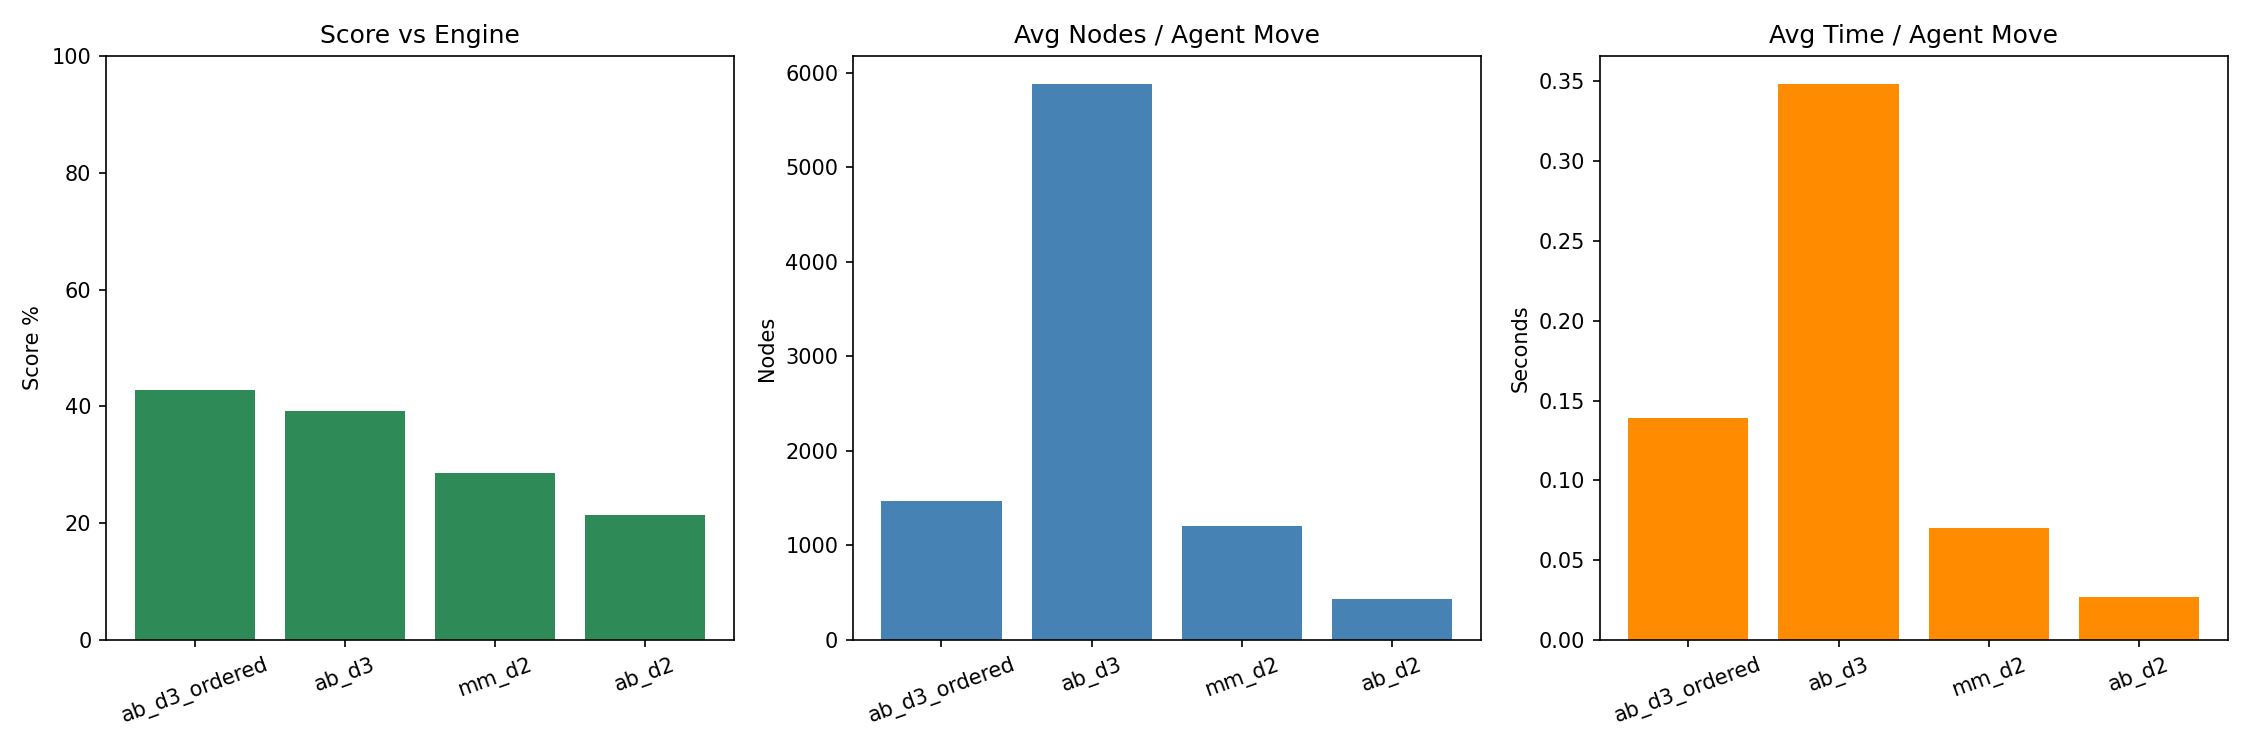
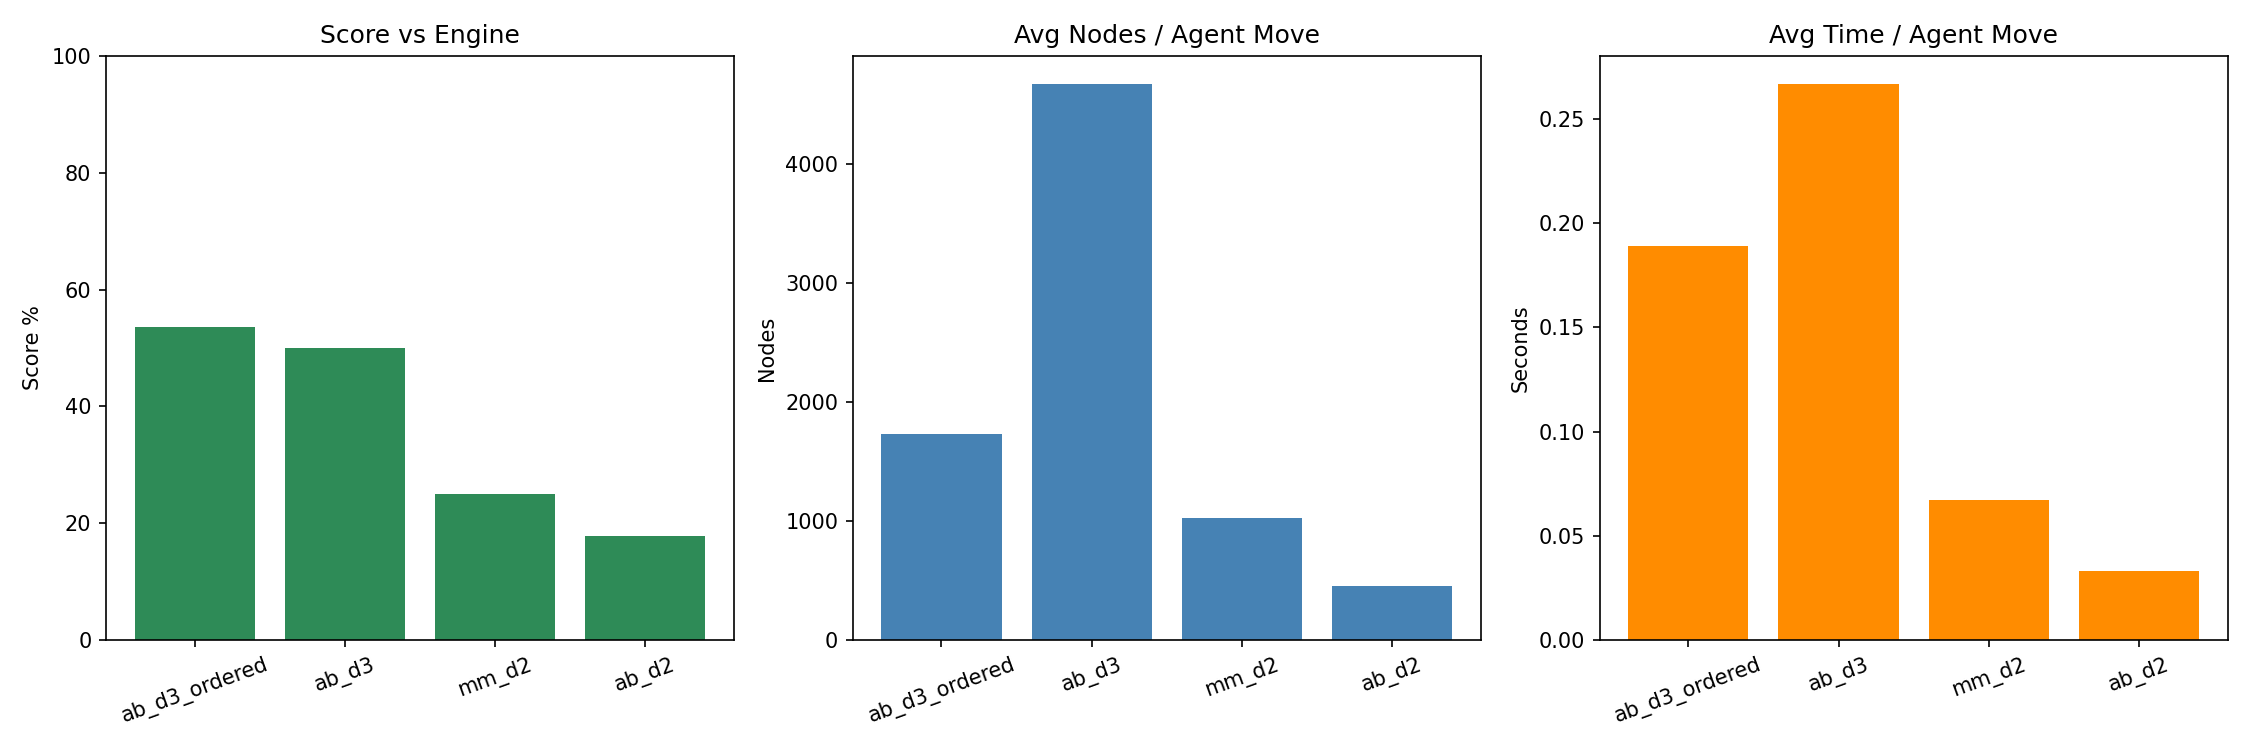
Optimised the evaluator function. It now user pre-computed per-square piece scores and iterates board.pieces(piece_type, color) instead of recomputing the whole table indices per piece. This increases the agent speed by 1.2x-1.4x

diff --git a/agent/evaluation.py b/agent/evaluation.py
@@ -130,30 +130,29 @@ TABLES = {
     chess.KING:   KING_TABLE
 }
 
-def get_table_index(square, color):
-    """
-    Convert a board square to the correct index into a piece-square table.
+PIECE_TYPES = (
+    chess.PAWN,
+    chess.KNIGHT,
+    chess.BISHOP,
+    chess.ROOK,
+    chess.QUEEN,
+    chess.KING,
+)
 
-    The tables are written from White's perspective (rank 8 at index 0).
-    - For White pieces: we flip the rank so that rank 8 → row 0 of the table.
-    - For Black pieces: the table is used as-is (rank 1 → row 0), which
-      mirrors the layout so Black's bonuses are symmetrical to White's.
-
-    Args:
-        square: chess.Square (0 = a1 … 63 = h8)
-        color:  chess.WHITE or chess.BLACK
-
-    Returns:
-        Integer index in [0, 63] into the piece-square table.
-    """
-    rank = chess.square_rank(square)   # 0 (rank 1) … 7 (rank 8)
-    file = chess.square_file(square)   # 0 (a-file) … 7 (h-file)
-    if color == chess.WHITE:
-        # Flip vertically: rank 7 (rank 8) becomes row 0 of the table
-        return (7 - rank) * 8 + file
-    else:
-        # No flip needed: rank 0 (rank 1) is already row 0 for Black
-        return rank * 8 + file
+WHITE_SCORES = {
+    piece_type: tuple(
+        PIECE_VALUES[piece_type] + TABLES[piece_type][chess.square_mirror(square)]
+        for square in chess.SQUARES
+    )
+    for piece_type in PIECE_TYPES
+}
+BLACK_SCORES = {
+    piece_type: tuple(
+        PIECE_VALUES[piece_type] + TABLES[piece_type][square]
+        for square in chess.SQUARES
+    )
+    for piece_type in PIECE_TYPES
+}
 
 def evaluate(board):
     """
@@ -179,32 +178,24 @@ def evaluate(board):
           < 0  Black is ahead
             0  Equal position (or forced draw)
     """
-    # Terminal state checks — return before iterating over pieces
     if board.is_checkmate():
-        # The side whose turn it is has been mated → they lose
         return -100000 if board.turn else 100000
     if board.is_stalemate() or board.is_insufficient_material():
-        return 0   # draw
+        return 0
 
     score = 0
-    for square in chess.SQUARES:
-        piece = board.piece_at(square)
-        if piece is None:
-            continue   # empty square — skip
+    white_scores = WHITE_SCORES
+    black_scores = BLACK_SCORES
 
-        # Material value (e.g. 100 for a pawn, 900 for a queen)
-        value = PIECE_VALUES[piece.piece_type]
+    for piece_type in PIECE_TYPES:
+        white_piece_scores = white_scores[piece_type]
+        black_piece_scores = black_scores[piece_type]
 
-        # Positional bonus from the piece-square table
-        # (positive = good square, negative = bad square for this piece)
-        index = get_table_index(square, piece.color)
-        positional = TABLES[piece.piece_type][index]
+        for square in board.pieces(piece_type, chess.WHITE):
+            score += white_piece_scores[square]
 
-        # Accumulate score: White adds, Black subtracts
-        if piece.color == chess.WHITE:
-            score += value + positional
-        else:
-            score -= value + positional
+        for square in board.pieces(piece_type, chess.BLACK):
+            score -= black_piece_scores[square]
 
     return score
 

diff --git a/agent/search.py b/agent/search.py
@@ -118,7 +118,7 @@ def minimax(board, depth, alpha, beta, is_maximising, counter, move_ordering=Fal
           score - the minimax value of this node (centipawns)
           move  - the best chess.Move found at this node (None at leaves)
     """
-    counter["nodes"] += 1
+    counter[0] += 1
 
     if depth == 0 or board.is_game_over():
         return evaluate(board), None
@@ -167,7 +167,7 @@ def minimax_no_pruning(board, depth, is_maximising, counter, move_ordering=False
 
     Args / Returns: same as minimax() except there are no alpha/beta bounds.
     """
-    counter["nodes"] += 1
+    counter[0] += 1
 
     if depth == 0 or board.is_game_over():
         return evaluate(board), None
@@ -206,9 +206,9 @@ def search_position(board, config):
     Returns:
         SearchResult containing the chosen move plus timing/statistics.
     """
-    counter = {"nodes": 0}
+    counter = [0]
     is_max = board.turn == chess.WHITE
-    start = time.time()
+    start = time.perf_counter()
 
     if config.use_alpha_beta:
         score, move = minimax(
@@ -229,8 +229,8 @@ def search_position(board, config):
             config.move_ordering,
         )
 
-    elapsed = time.time() - start
-    return SearchResult(move, score, counter["nodes"], elapsed)
+    elapsed = time.perf_counter() - start
+    return SearchResult(move, score, counter[0], elapsed)
 
 
 def get_best_move_no_pruning(board, depth, move_ordering=False):

diff --git a/config/settings.py b/config/settings.py
@@ -20,6 +20,7 @@ AGENT_CONFIGS = [
     ("ab_d2",           2,     True,       False),   # Alpha-Beta, depth 2
     ("ab_d3",           3,     True,       False),   # Alpha-Beta, depth 3
     ("ab_d3_ordered",   3,     True,       True),    # Alpha-Beta, depth 3 + move ordering
+    # ("ab_d4",           4,     True,       True),   # Alpha-Beta, depth 4
 ]
 
 # ---------------------------------------------------------------------------
@@ -34,6 +35,6 @@ INTERNAL_PLOT_OUTPUT = "internal_benchmark.png"
 ENGINE_ELO       = 1320    # target Elo for Stockfish — minimum supported by this build is 1320
 ENGINE_TIME      = 0.05     # seconds per engine move
 NUM_OPENINGS     = 6        # number of opening positions to test (from config/openings.py)
-MAX_PLIES        = 160      # truncate game after this many half-moves (avoids infinite draws)
+MAX_PLIES        = 300      # truncate game after this many half-moves (avoids infinite draws)
 VS_ENGINE_CSV    = "engine_benchmark_results.csv"
 VS_ENGINE_PLOT   = "engine_benchmark_summary.png"
